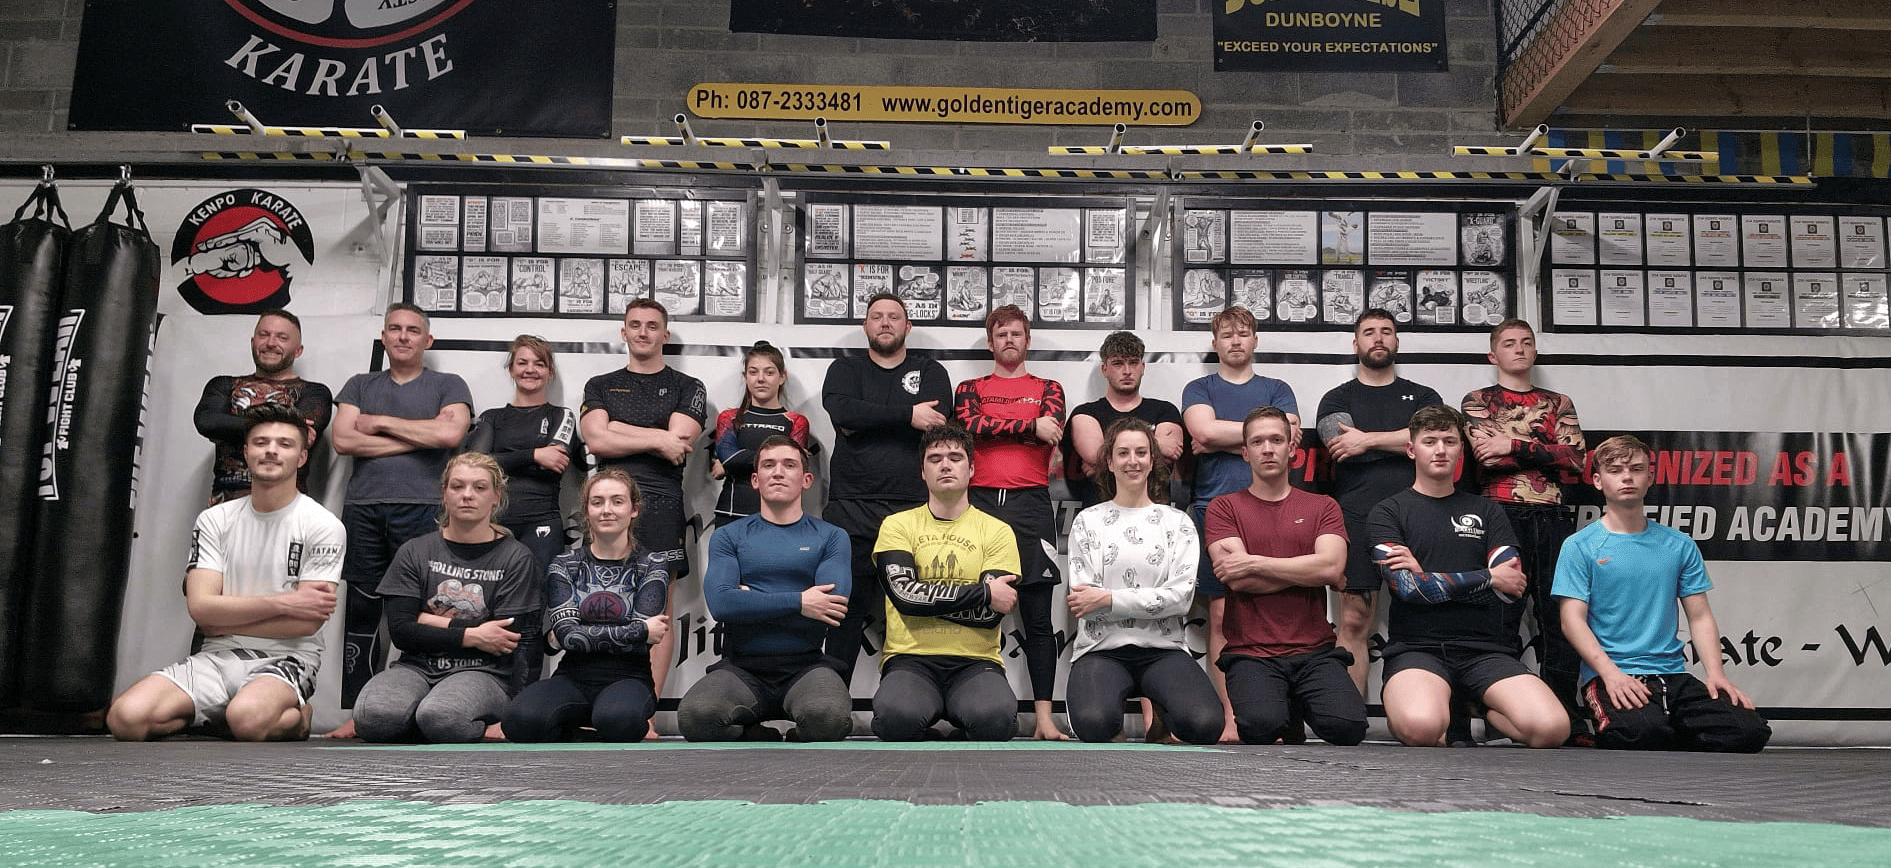
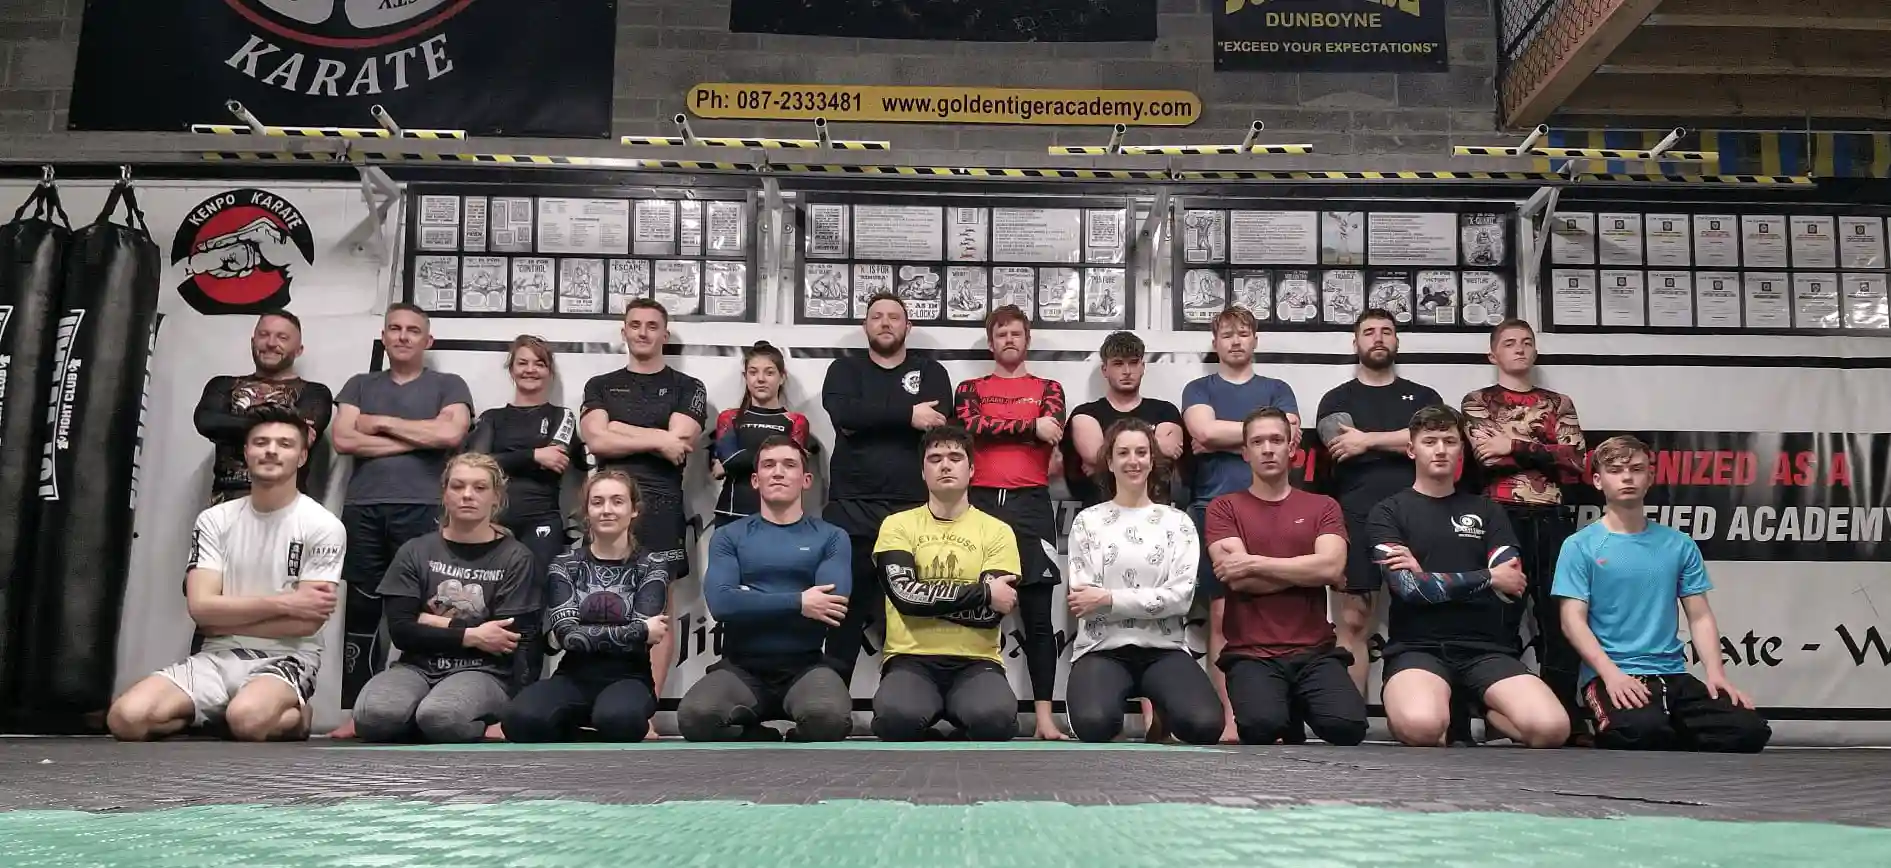
SEO - Optimising Gallery Images

diff --git a/styles.css b/styles.css
@@ -1826,10 +1826,6 @@ body.class-sign-up-page {
 
 /* SEO Page 01 - What is Brazilian Jiu-Jitsu BJJ */
 
-#blog-page {
-  background-color: yellowgreen;
-}
-
 body#blog-page .logo {
   margin: 0 auto;
 }
